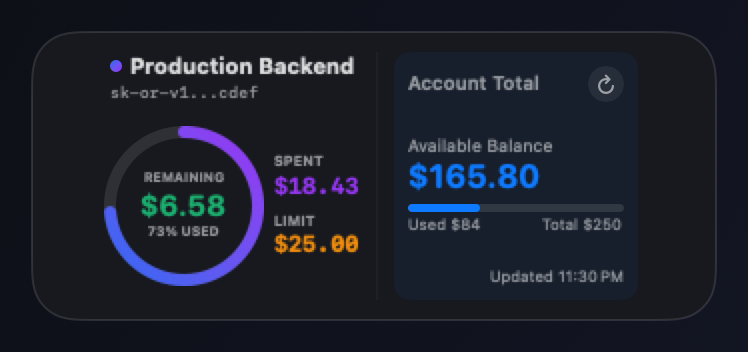
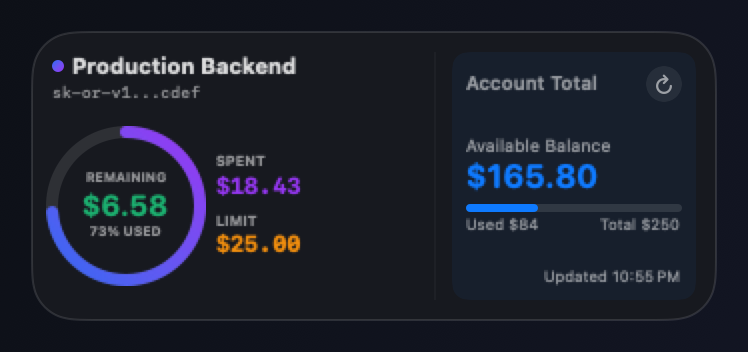
fix(widget): disable default content margins and expand layout to eliminate border gaps

diff --git a/OpenRouterWidgetExtension/OpenRouterWidget.swift b/OpenRouterWidgetExtension/OpenRouterWidget.swift
@@ -48,5 +48,6 @@ struct OpenRouterWidget: Widget {
         .configurationDisplayName("OpenRouter Balance")
         .description("Track key budget, remaining credits, and account totals with 1-click refresh.")
         .supportedFamilies([.systemSmall, .systemMedium])
+        .contentMarginsDisabled()
     }
 }

diff --git a/OpenRouterWidgetExtension/OpenRouterWidgetView.swift b/OpenRouterWidgetExtension/OpenRouterWidgetView.swift
@@ -220,6 +220,7 @@ struct MediumWidgetView: View {
 
                 Spacer(minLength: 0)
             }
+            .frame(maxWidth: .infinity, alignment: .leading)
 
             Divider().opacity(0.3)
 

diff --git a/CHANGELOG.md b/CHANGELOG.md
@@ -7,6 +7,13 @@ and this project adheres to [Semantic Versioning](https://semver.org/spec/v2.0.0
 
 ---
 
+## [1.1.5] - 2026-10-24
+
+### Fixed
+- **WidgetKit Content Margins**: Disable default macOS 14+ WidgetKit content margins (`.contentMarginsDisabled()`) and enable horizontal expansion on medium widget layout to eliminate excess empty space on widget borders.
+
+---
+
 ## [1.0.6] - 2026-10-08
 
 ### Added
